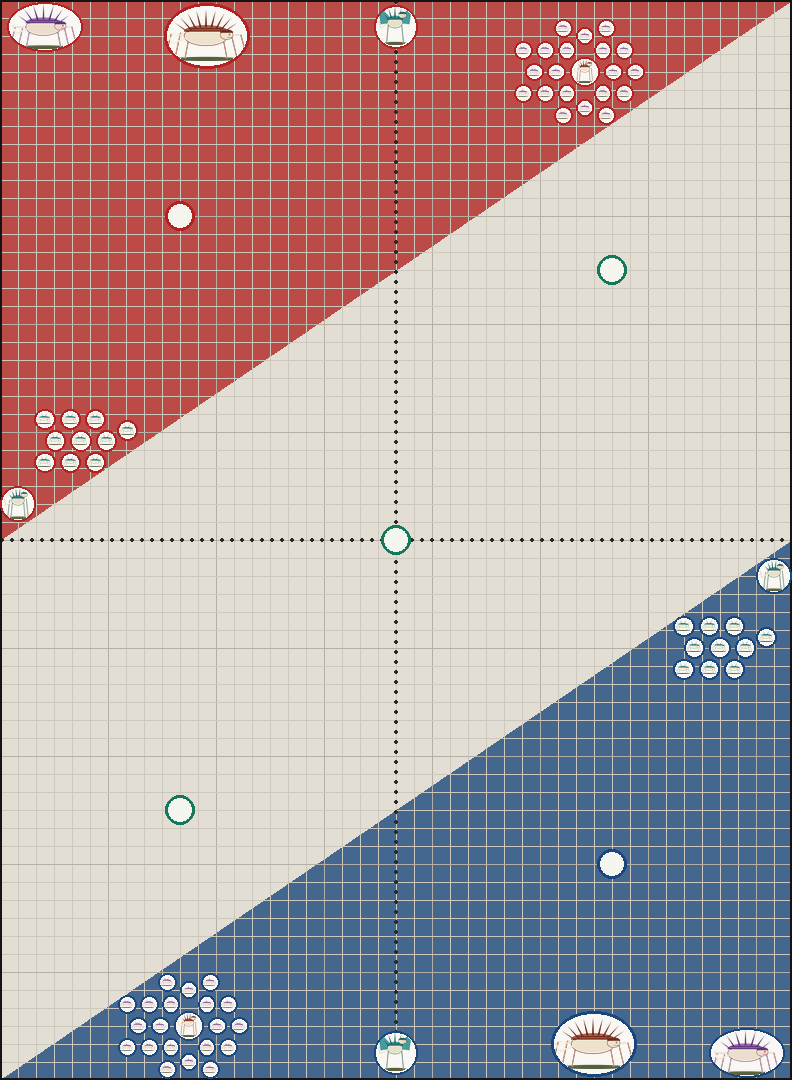
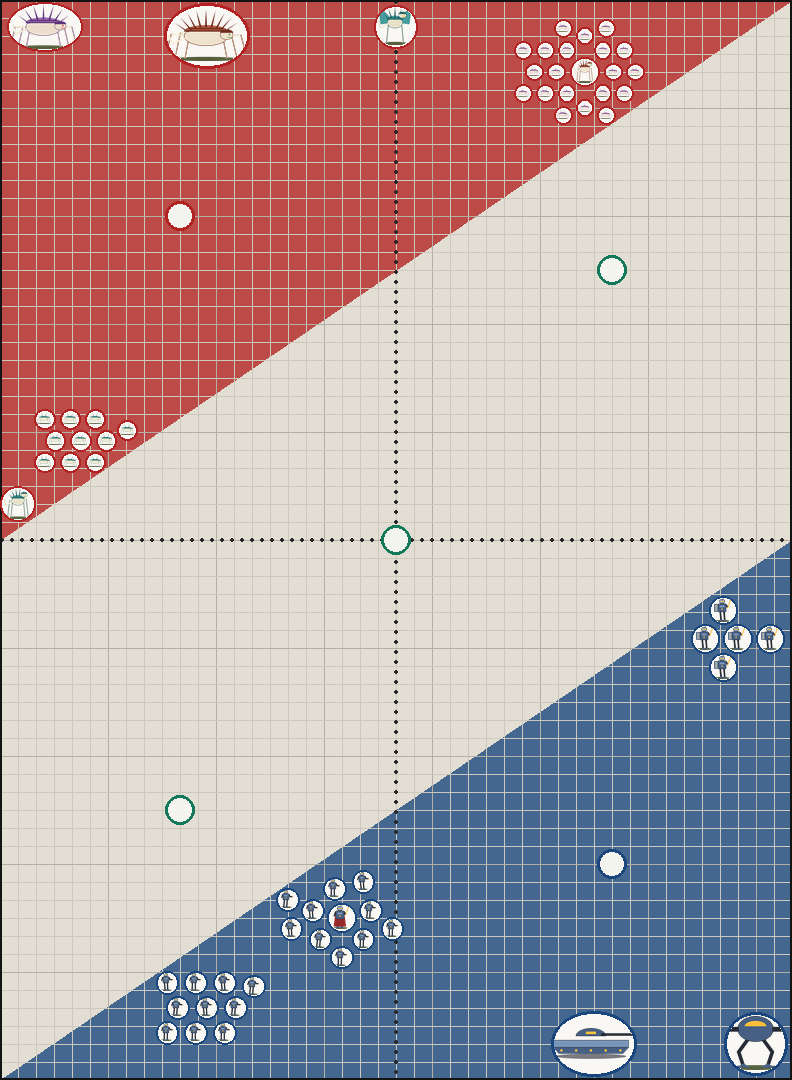
Release 3.0.0: deployment board

diff --git a/examples/make_robot_images.py b/examples/make_robot_images.py
@@ -1,0 +1,144 @@
+"""Generate the original demo robots used in examples/robot_images (second demo army).
+
+Simple procedurally drawn machines, so the repository ships without any third-party artwork.
+Run:  python examples/make_robot_images.py
+"""
+from pathlib import Path
+
+from PIL import Image, ImageDraw, ImageFilter
+
+OUT = Path(__file__).parent / "robot_images"
+SS = 4  # supersampling
+
+STEEL = (70, 95, 130)
+STEEL_LIGHT = (120, 150, 185)
+DARK = (35, 40, 50)
+GLOW = (255, 190, 60)
+BASE = (85, 95, 60)
+
+
+def _base(d, cx, ground, w, h):
+    d.ellipse([cx - w / 2, ground - h * 0.06, cx + w / 2, ground + h * 0.02], fill=BASE + (255,))
+
+
+def bot(height, variant=0, gun=True, shield=False, cape=False):
+    """A small walking robot: round head with one visor, box body, tube arms and legs."""
+    H = height * SS
+    W = int(H * 0.8)
+    im = Image.new("RGBA", (W, H), (0, 0, 0, 0))
+    d = ImageDraw.Draw(im)
+    cx, ground = W / 2, H * 0.97
+    _base(d, cx, ground, W * 0.8, H)
+    lw = H * 0.07
+    stride = [(-0.12, 0.10), (-0.05, 0.14), (-0.15, 0.06)][variant % 3]
+    hip = ground - H * 0.42
+    for s, off in ((-1, stride[0]), (1, stride[1])):
+        d.line([(cx + s * W * 0.1, hip), (cx + off * W, ground - H * 0.04)], fill=DARK, width=int(lw))
+        d.rounded_rectangle([cx + off * W - W * 0.09, ground - H * 0.07, cx + off * W + W * 0.09, ground - H * 0.02],
+                            radius=H * 0.02, fill=STEEL)
+    if cape:
+        d.polygon([(cx - W * 0.22, hip - H * 0.25), (cx + W * 0.22, hip - H * 0.25),
+                   (cx + W * 0.32, ground - H * 0.08), (cx - W * 0.32, ground - H * 0.08)], fill=(150, 40, 40))
+    body = [cx - W * 0.22, hip - H * 0.32, cx + W * 0.22, hip + H * 0.03]
+    d.rounded_rectangle(body, radius=H * 0.04, fill=STEEL, outline=DARK, width=SS * 2)
+    d.rectangle([cx - W * 0.12, hip - H * 0.24, cx + W * 0.12, hip - H * 0.16], fill=STEEL_LIGHT)
+    d.ellipse([cx - W * 0.04, hip - H * 0.12, cx + W * 0.04, hip - H * 0.06], fill=GLOW)
+    # head: dome with one visor slit, small antenna
+    hy = hip - H * 0.42
+    d.ellipse([cx - W * 0.15, hy - H * 0.09, cx + W * 0.15, hy + H * 0.11], fill=STEEL_LIGHT, outline=DARK, width=SS * 2)
+    d.rounded_rectangle([cx - W * 0.1, hy - H * 0.01, cx + W * 0.12, hy + H * 0.03], radius=H * 0.01, fill=GLOW)
+    d.line([(cx + W * 0.05, hy - H * 0.08), (cx + W * 0.09, hy - H * 0.16)], fill=DARK, width=SS * 2)
+    d.ellipse([cx + W * 0.07, hy - H * 0.18, cx + W * 0.11, hy - H * 0.14], fill=GLOW)
+    sh = hip - H * 0.28
+    if shield:
+        d.rounded_rectangle([cx - W * 0.42, sh - H * 0.02, cx - W * 0.2, sh + H * 0.3], radius=H * 0.03,
+                            fill=STEEL_LIGHT, outline=DARK, width=SS * 2)
+        d.line([(cx - W * 0.31, sh + H * 0.03), (cx - W * 0.31, sh + H * 0.25)], fill=GLOW, width=SS * 3)
+    else:
+        d.line([(cx - W * 0.22, sh), (cx - W * 0.3, sh + H * 0.2)], fill=DARK, width=int(lw * 0.8))
+    if gun:
+        d.line([(cx + W * 0.22, sh), (cx + W * 0.3, sh + H * 0.14)], fill=DARK, width=int(lw * 0.8))
+        d.rectangle([cx + W * 0.24, sh + H * 0.1, cx + W * 0.48, sh + H * 0.16], fill=DARK)
+        d.rectangle([cx + W * 0.44, sh + H * 0.115, cx + W * 0.49, sh + H * 0.145], fill=GLOW)
+    else:  # glowing blade
+        d.line([(cx + W * 0.22, sh), (cx + W * 0.3, sh + H * 0.14)], fill=DARK, width=int(lw * 0.8))
+        d.line([(cx + W * 0.3, sh + H * 0.14), (cx + W * 0.45, sh - H * 0.2)], fill=GLOW, width=SS * 5)
+    im = im.filter(ImageFilter.SMOOTH)
+    return im.resize((W // SS, H // SS), Image.LANCZOS)
+
+
+def walker(height):
+    """A big two-legged walker with a round cockpit and two cannons."""
+    H = height * SS
+    W = int(H * 1.0)
+    im = Image.new("RGBA", (W, H), (0, 0, 0, 0))
+    d = ImageDraw.Draw(im)
+    cx, ground = W / 2, H * 0.97
+    _base(d, cx, ground, W * 0.9, H)
+    hip = ground - H * 0.5
+    for s in (-1, 1):
+        knee = (cx + s * W * 0.28, ground - H * 0.28)
+        d.line([(cx + s * W * 0.12, hip), knee, (cx + s * W * 0.2, ground - H * 0.04)], fill=DARK, width=int(H * 0.06),
+               joint="curve")
+        d.polygon([(cx + s * W * 0.2 - W * 0.12, ground - H * 0.02), (cx + s * W * 0.2 + W * 0.12, ground - H * 0.02),
+                   (cx + s * W * 0.2, ground - H * 0.09)], fill=STEEL)
+    d.ellipse([cx - W * 0.3, hip - H * 0.38, cx + W * 0.3, hip + H * 0.05], fill=STEEL, outline=DARK, width=SS * 3)
+    d.chord([cx - W * 0.18, hip - H * 0.3, cx + W * 0.18, hip - H * 0.12], 180, 360, fill=GLOW)
+    for s in (-1, 1):
+        y = hip - H * 0.16
+        d.rectangle([cx + s * W * 0.28 - (W * 0.18 if s < 0 else 0), y - H * 0.04,
+                     cx + s * W * 0.28 + (W * 0.18 if s > 0 else 0), y + H * 0.04], fill=DARK)
+        d.rectangle([cx + s * W * 0.46 - W * 0.03, y - H * 0.03, cx + s * W * 0.46 + W * 0.03, y + H * 0.03], fill=GLOW)
+    im = im.filter(ImageFilter.SMOOTH)
+    return im.resize((W // SS, H // SS), Image.LANCZOS)
+
+
+def tank(height):
+    """A hover tank: flat hull, turret, long gun."""
+    H = height * SS
+    W = int(H * 2.0)
+    im = Image.new("RGBA", (W, H), (0, 0, 0, 0))
+    d = ImageDraw.Draw(im)
+    cx, ground = W / 2, H * 0.97
+    d.ellipse([cx - W * 0.42, ground - H * 0.1, cx + W * 0.42, ground + H * 0.02], fill=(70, 70, 80, 180))
+    hull_y = ground - H * 0.25
+    d.polygon([(cx - W * 0.45, hull_y), (cx + W * 0.45, hull_y), (cx + W * 0.38, hull_y + H * 0.15),
+               (cx - W * 0.38, hull_y + H * 0.15)], fill=STEEL, outline=DARK)
+    d.rectangle([cx - W * 0.45, hull_y - H * 0.18, cx + W * 0.45, hull_y], fill=STEEL_LIGHT, outline=DARK, width=SS * 2)
+    for k in range(5):
+        x = cx - W * 0.35 + k * W * 0.175
+        d.ellipse([x - H * 0.03, hull_y + H * 0.04, x + H * 0.03, hull_y + H * 0.1], fill=GLOW)
+    ty = hull_y - H * 0.18
+    d.chord([cx - W * 0.18, ty - H * 0.28, cx + W * 0.18, ty + H * 0.1], 180, 360, fill=STEEL, outline=DARK, width=SS * 2)
+    d.rectangle([cx + W * 0.12, ty - H * 0.16, cx + W * 0.5, ty - H * 0.1], fill=DARK)
+    d.rectangle([cx - W * 0.06, ty - H * 0.2, cx + W * 0.06, ty - H * 0.14], fill=GLOW)
+    im = im.filter(ImageFilter.SMOOTH)
+    return im.resize((W // SS, H // SS), Image.LANCZOS)
+
+
+def main():
+    OUT.mkdir(exist_ok=True)
+    images = {
+        "tin-soldier-a": bot(110, 0),
+        "tin-soldier-b": bot(108, 1),
+        "tin-soldier-c": bot(112, 2),
+        "shield-bot": bot(120, 1, gun=False, shield=True),
+        "robot-captain": bot(135, 0, gun=False, cape=True),
+        "walker": walker(330),
+        "hover-tank": tank(200),
+    }
+    for name, img in images.items():
+        img.save(OUT / f"{name}.png")
+        print("wrote", name)
+    (OUT / "bases.json").write_text(
+        '{\n  "Tin Soldier": 32,\n  "Shield Bot": 40,\n  "Robot Captain": 40,\n'
+        '  "Walker": 90,\n  "Hover Tank": "120x92"\n}\n', encoding="utf-8")
+    disp = Path(__file__).parent / "demo_images" / "dispositions"
+    if disp.is_dir():  # same placeholder disposition icons as the monsters
+        (OUT / "dispositions").mkdir(exist_ok=True)
+        for p in disp.glob("*.png"):
+            (OUT / "dispositions" / p.name).write_bytes(p.read_bytes())
+
+
+if __name__ == "__main__":
+    main()

diff --git a/army_photo.py b/army_photo.py
@@ -139,7 +139,7 @@ def _is_section(line: str) -> bool:
 
 
 def _faction_line(line: str) -> tuple[str, str, str, str] | None:
-    """'Xenos - Tyranids - CrusherTalons - [1990 pts]' -> (faction, rest, title, points)."""
+    """'Monsters - Monster Army - Monster Party - [1000 pts]' -> (faction, rest, title, points)."""
     m = re.match(r"^(?P<parts>.+?)(?:\s+-\s+\[(?P<pts>[\d,.]+)\s*pts\])?\s*$", line.strip())
     parts = [p.strip() for p in m.group("parts").split(" - ")] if m else []
     if len(parts) < 2:
@@ -152,7 +152,7 @@ def _faction_line(line: str) -> tuple[str, str, str, str] | None:
 
 
 # --------------------------------------------------------------------------- #
-# Format 1: GW style ("Tyranid Prime (75 Points)" + bullet lists)
+# Format 1: GW style ("Boss Monster (75 Points)" + bullet lists)
 # --------------------------------------------------------------------------- #
 GW_UNIT_RE = re.compile(r"^(?P<name>[^•◦].*?)\s*\((?P<points>[\d,.]+)\s*(?:Points|Punkte)\)\s*$", re.I)
 BULLET_RE = re.compile(r"^\s*[•\-*]\s*(?:(\d+)x\s+)?(.+?)\s*$")
@@ -238,7 +238,7 @@ def parse_gw(text: str) -> ArmyList:
 
 
 # --------------------------------------------------------------------------- #
-# Format 2: compact ("Char1: 1x The Swarmlord (210 pts): Warlord, Bone Sabres")
+# Format 2: compact ("Char1: 1x The Big Monster (210 pts): Warlord, Crushing claws")
 # --------------------------------------------------------------------------- #
 COMPACT_UNIT_RE = re.compile(
     r"^(?:(?P<char>Char\d+)\s*:\s*)?(?P<n>\d+)x\s+(?P<name>.+?)\s*\((?P<points>[\d,.]+)\s*pts\)\s*(?::\s*(?P<rest>.*))?$",
@@ -286,7 +286,7 @@ def parse_compact(text: str) -> ArmyList:
             kind = "leads" if lk.group("kind").lower().startswith("leading") else "led_by"
             pending.append((kind, unit.id, lk.group("name")))
             continue
-        g = COMPACT_GROUP_RE.match(s)  # "• 4x Ravener" / "• 1x Ravener Prime: Warlord, Prime claws"
+        g = COMPACT_GROUP_RE.match(s)  # "• 4x Flying Monster" / "• 1x Flying Monster Prime: Warlord, Big claws"
         if g:
             items = _split_items(g.group("rest") or "")
             if any(i.lower() == "warlord" for i in items):
@@ -296,7 +296,7 @@ def parse_compact(text: str) -> ArmyList:
             unit.groups.append(group)
             split_group = False
             continue
-        w = COMPACT_WITH_RE.match(s)  # "3 with Ravener heavy claws and talons"
+        w = COMPACT_WITH_RE.match(s)  # "3 with Claws"
         if w and group is not None:
             sub = ModelGroup(int(w.group("n")), group.name, group.wargear + _split_items(w.group("rest")))
             if not split_group:  # replace the parent group by its parts
@@ -318,7 +318,7 @@ def parse_compact(text: str) -> ArmyList:
 
 
 # --------------------------------------------------------------------------- #
-# Format 3: simple ("Norn Emissary (270pts): Destabilising Predation (Upgrade)")
+# Format 3: simple ("Big Monster (270pts): Big Brain (Upgrade)")
 # --------------------------------------------------------------------------- #
 SIMPLE_UNIT_RE = re.compile(r"^(?P<name>[^•◦#].*?)\s*\((?P<points>[\d,.]+)\s*pts\)\s*(?::\s*(?P<rest>.*))?$", re.I)
 
@@ -333,7 +333,7 @@ def parse_simple(text: str) -> ArmyList:
         s = raw.strip()
         if not s or s.lower().startswith(("created with", "exported with")):
             continue
-        a = SIMPLE_ATTACHED_RE.match(s)  # "+ 6x Zoanthropes (190pts)" = unit led by the line above
+        a = SIMPLE_ATTACHED_RE.match(s)  # "+ 6x Little Monsters (190pts)" = unit led by the line above
         m = SIMPLE_UNIT_RE.match(a.group("unit") if a else s)
         if m:
             unit = Unit(id=len(army.units), name=m.group("name").strip(), points=_to_int(m.group("points")))
@@ -397,7 +397,7 @@ def parse_bracket(text: str) -> ArmyList:
         if not s or s.lower().startswith(("created with", "exported with")):
             continue
         lk = LINK_RE.match(raw)
-        if lk and unit is not None:  # "• Leading: Zoanthropes" / "• Leader: Neurotyrant"
+        if lk and unit is not None:  # "• Leading: Little Monsters" / "• Leader: Smart Monster"
             kind = "leads" if lk.group("kind").lower() in ("leading", "leads", "attached to") else "led_by"
             pending.append((kind, unit.id, lk.group("name")))
             continue
@@ -493,7 +493,7 @@ def words(text: str) -> list[str]:
 
 
 def name_words(name: str) -> list[str]:
-    """'Tyranid Prime with Lash Whip' -> ['tyranid', 'prime']"""
+    """'Boss Monster with Big Club' -> ['boss', 'monster']"""
     base = re.split(r"\s+with\s+", name, flags=re.I)[0]
     return [w for w in words(base) if w not in STOP_WORDS]
 
@@ -601,7 +601,7 @@ class ImageLibrary:
                         pre += 1
                 cands.append((hits, pre, post, f.path))
             if cands:
-                # Words behind a variant marker ("hormagaunt-c-leaping") only matter when some
+                # Words behind a variant marker ("little-monster-c-jumping") only matter when some
                 # image matches the wargear; otherwise all variants are mixed for variety.
                 post_w = 0.5 if any(c[0] for c in cands) else 0
                 scored = [(10 * h - pre - post_w * post, p) for h, pre, post, p in cands]

diff --git a/tests/test_board.py b/tests/test_board.py
@@ -25,7 +25,7 @@ def test_bases_lookup(tmp_path):
     b = board.Bases(f)
     assert b.get("Little Monsters") == (25, 25)          # plural / singular
     assert b.get("The Big Monster") == (120, 92)
-    assert b.get("Ravener Prime", "Little Monsters") == (25, 25)   # first name unknown -> second
+    assert b.get("Flying Monster Prime", "Little Monsters") == (25, 25)   # first name unknown -> second
     assert b.get("Medium Monster") is None
 
 
@@ -131,3 +131,11 @@ def test_transparent_layout_image():
     assert abs(rect[0] - 100) <= 6 and abs(rect[2] - (100 + b.width)) <= 6
     assert abs(rect[1] - 100) <= 6 and abs(rect[3] - (100 + b.height)) <= 6
     assert board.detect_map(board.flatten(img), rect, board.MAPS) == "dawn-of-war"
+
+
+def test_two_demo_armies_on_the_board(tmp_path):
+    out = tmp_path / "vs.png"
+    rc = ap.main([str(DEMO), str(ROOT / "examples" / "robot_list.txt"), "--board", "--map", "crucible-of-battle",
+                  "-i", str(IMAGES), "--enemy-images", str(ROOT / "examples" / "robot_images"), "-o", str(out),
+                  "--no-open", "--no-questions", "--no-terrain", "--ppi", "12"])
+    assert rc == 0 and out.exists()

diff --git a/board.py b/board.py
@@ -818,7 +818,7 @@ def run(texts: list[str], args) -> int:
     guessed = estimate_bases(setups)
     if guessed:
         print("No base size in bases.json for:", ", ".join(guessed))
-        print("      (estimated from the image; add them to bases.json, e.g. \"Termagants\": 25)")
+        print("      (estimated from the image; add them to bases.json, e.g. \"Little Monsters\": 25)")
 
     photo, missing = render_board(setups, map_name, maps, style=args.board_style, ppi=args.ppi,
                                   terrain_image=terrain, seed=args.seed or 0)

diff --git a/README.md b/README.md
@@ -7,7 +7,8 @@ every model in the list, lined up together like a team photo.
 |:-----------:|:------------:|:----------------:|
 | ![Group photo](docs/demo.png) | ![Battle-ready](docs/demo-battle-ready.png) | ![Deployment board](docs/demo-board.png) |
 
-*Demo made with the procedurally drawn critters in `examples/demo_images`.*
+*Demo made with two procedurally drawn armies: the critters in `examples/demo_images` and the robots
+in `examples/robot_images`.*
 
 > **Good to know**
 > - **List formats:** reads all text exports of New Recruit and detects the format automatically (see [Supported list formats](#supported-list-formats)). The **GW format** gives the best result.
@@ -56,6 +57,8 @@ opens automatically.
 To try it without your own images:
 ```
 python army_photo.py examples/demo_list.txt -i examples/demo_images
+python army_photo.py examples/demo_list.txt examples/robot_list.txt --board --map crucible-of-battle \
+    -i examples/demo_images --enemy-images examples/robot_images
 ```
 
 ## Supported list formats
@@ -143,7 +146,7 @@ You can also drop one or two list files and optionally a terrain layout image on
   `hammer-and-anvil`, `dawn-of-war`, `crucible-of-battle`, with their objective markers. You can
   add or correct maps with a `maps.json` in the image folder (same format as `MAPS` in `board.py`).
 - **Real base sizes:** every model gets the base from `bases.json` in its army's image folder,
-  round (`32`) or oval (`"105x70"`), in mm. Model names (`"Neurothrope": 40`) and unit names
+  round (`32`) or oval (`"105x70"`), in mm. Model names (`"Smart Monster": 50`) and unit names
   work. Missing ones are estimated from the image and listed in the console.
 - **Two looks** (`--board-style`): `tokens` (default) shows the model inside its base, like a
   token; `models` shows just the model photos in true scale to each other, standing where their
@@ -318,6 +321,7 @@ You can also install it as a command with `pip install .` and then run `army-pho
 pip install -r requirements.txt pytest
 pytest
 python examples/make_demo_images.py   # regenerate the demo critters
+python examples/make_robot_images.py  # regenerate the demo robots
 ```
 
 Contributions are welcome, especially support for more list formats and smarter layouts.

diff --git a/CHANGELOG.md b/CHANGELOG.md
@@ -17,6 +17,7 @@
   layout image works.
 - Smart deployment on terrain: infantry stands in ruins, units prefer spots hidden from the enemy
   (`smart_deploy`).
+- Second demo army (robots, `examples/robot_list.txt`) so the board demo shows two armies.
 - `images/example-bases.json`: template for your own base sizes.
 - Missing base sizes are estimated from the images and listed in the console.
 
